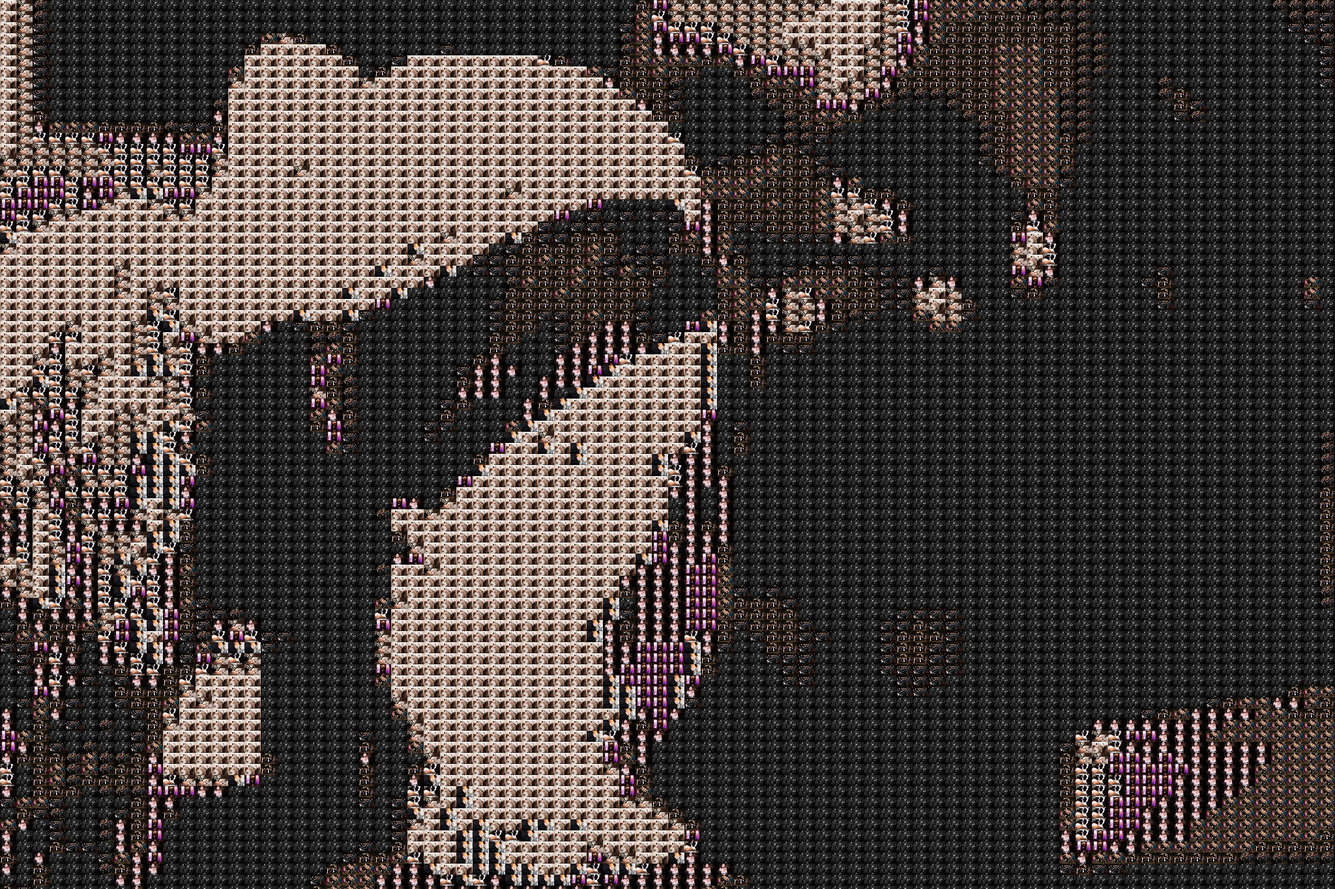
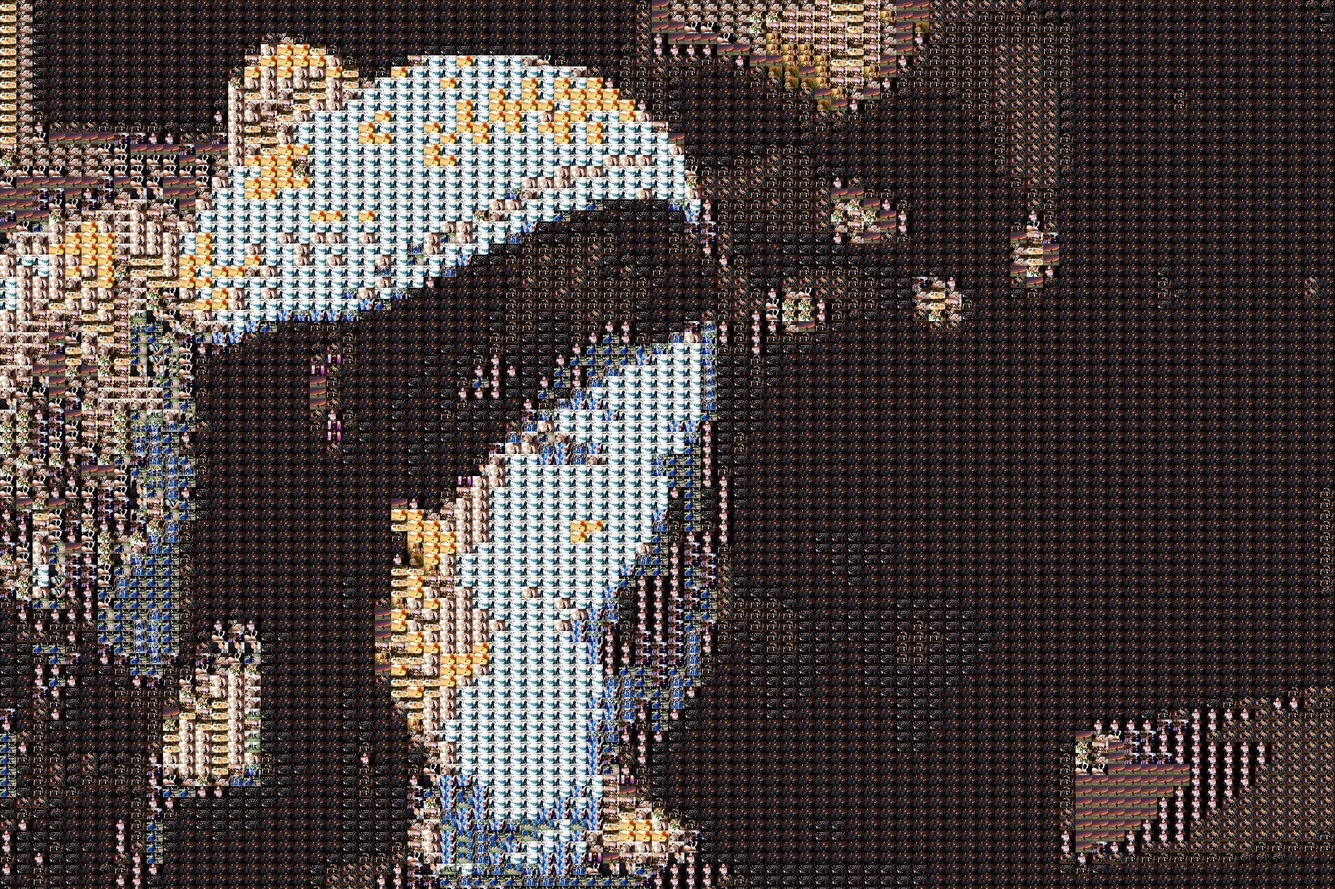
bugfix: first img removed
no longer removes first image in images folder

diff --git a/mosaic.py b/mosaic.py
@@ -7,7 +7,6 @@ import pdb
 image_dir = "images"  # Folder for original images
 resize_dir = "resized"  # Folder for resized images
 image_files = os.listdir(image_dir)
-file_extensions = ["jpg", "jpeg", "png"]
 # !! testing out a smaller resolutuon of image1.jpg
 # src_img = cv2.imread("image1 copy.jpg", cv2.IMREAD_GRAYSCALE)
 src_img = cv2.imread("image.jpg")
@@ -16,16 +15,15 @@ src_img = cv2.imread("image.jpg")
 # Resizes input images to 25 x 17 pixels
 # Keeps image dimensions but when comparing blocks
 def resizeImages(images):
+    file_extensions = ["jpg", "jpeg", "png"]
+    images[:] = [img for img in images if img.split(".")[-1].lower() in file_extensions]
+    # print images
     for img in images:
-        extension = img.split(".")[-1].lower()
-        if (extension not in file_extensions) or img.startswith('.'):
-            images.remove(img)
-        else:
-            print img
-            image = cv2.imread(os.path.join(image_dir, img))
-            # image = cv2.cvtColor(image, cv2.COLOR_BGR2GRAY)
-            # resized = cv2.resize(image, (25, 17))
-            # cv2.imwrite(resize_dir + "/" + img, resized)
+        print img
+        image = cv2.imread(os.path.join(image_dir,img))
+        # img = cv2.cvtColor(img, cv2.COLOR_BGR2GRAY)
+        resized = cv2.resize(image, (25,17))
+        cv2.imwrite(resize_dir + "/" + img, resized)
 
     # Returns array of resized images
     return images
@@ -148,10 +146,10 @@ def insertImage(mosaic_img, image, index):
 
 
 image_files = resizeImages(image_files)
-# mosaic = bestMatchImage(src_img, image_files)
+mosaic = bestMatchImage(src_img, image_files)
 
 # Saves mosaic image to computer
-# cv2.imwrite("mosaic.jpg",mosaic)
+cv2.imwrite("mosaic.jpg",mosaic)
 
 
 
